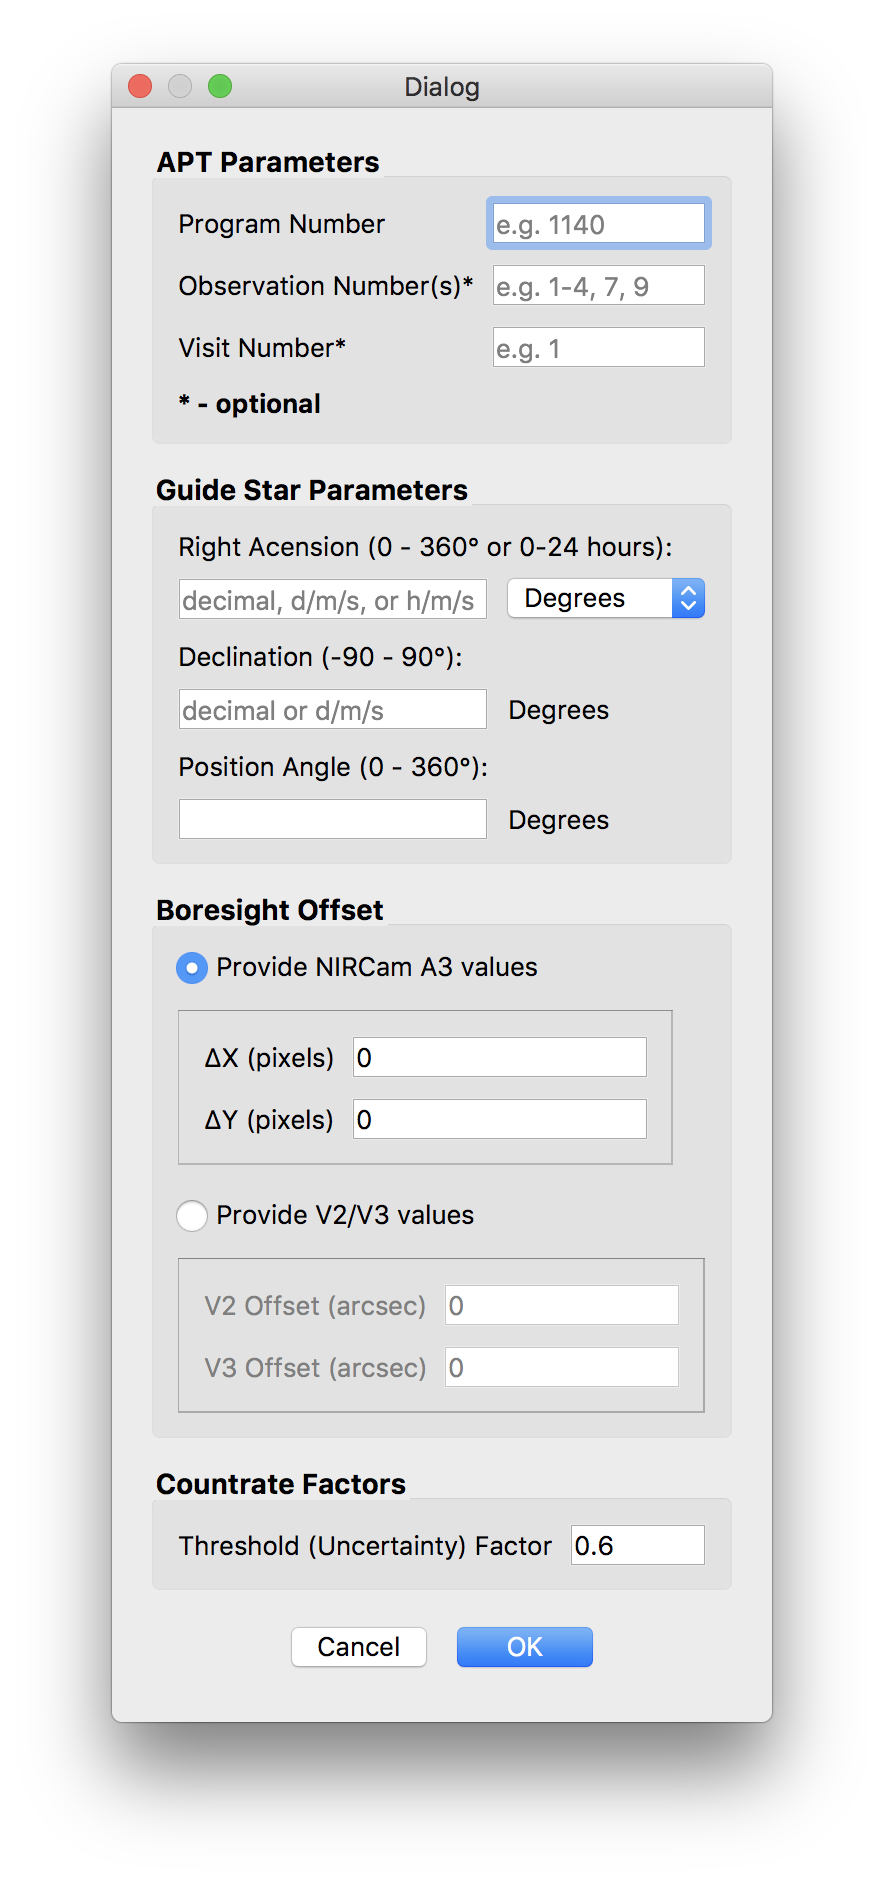
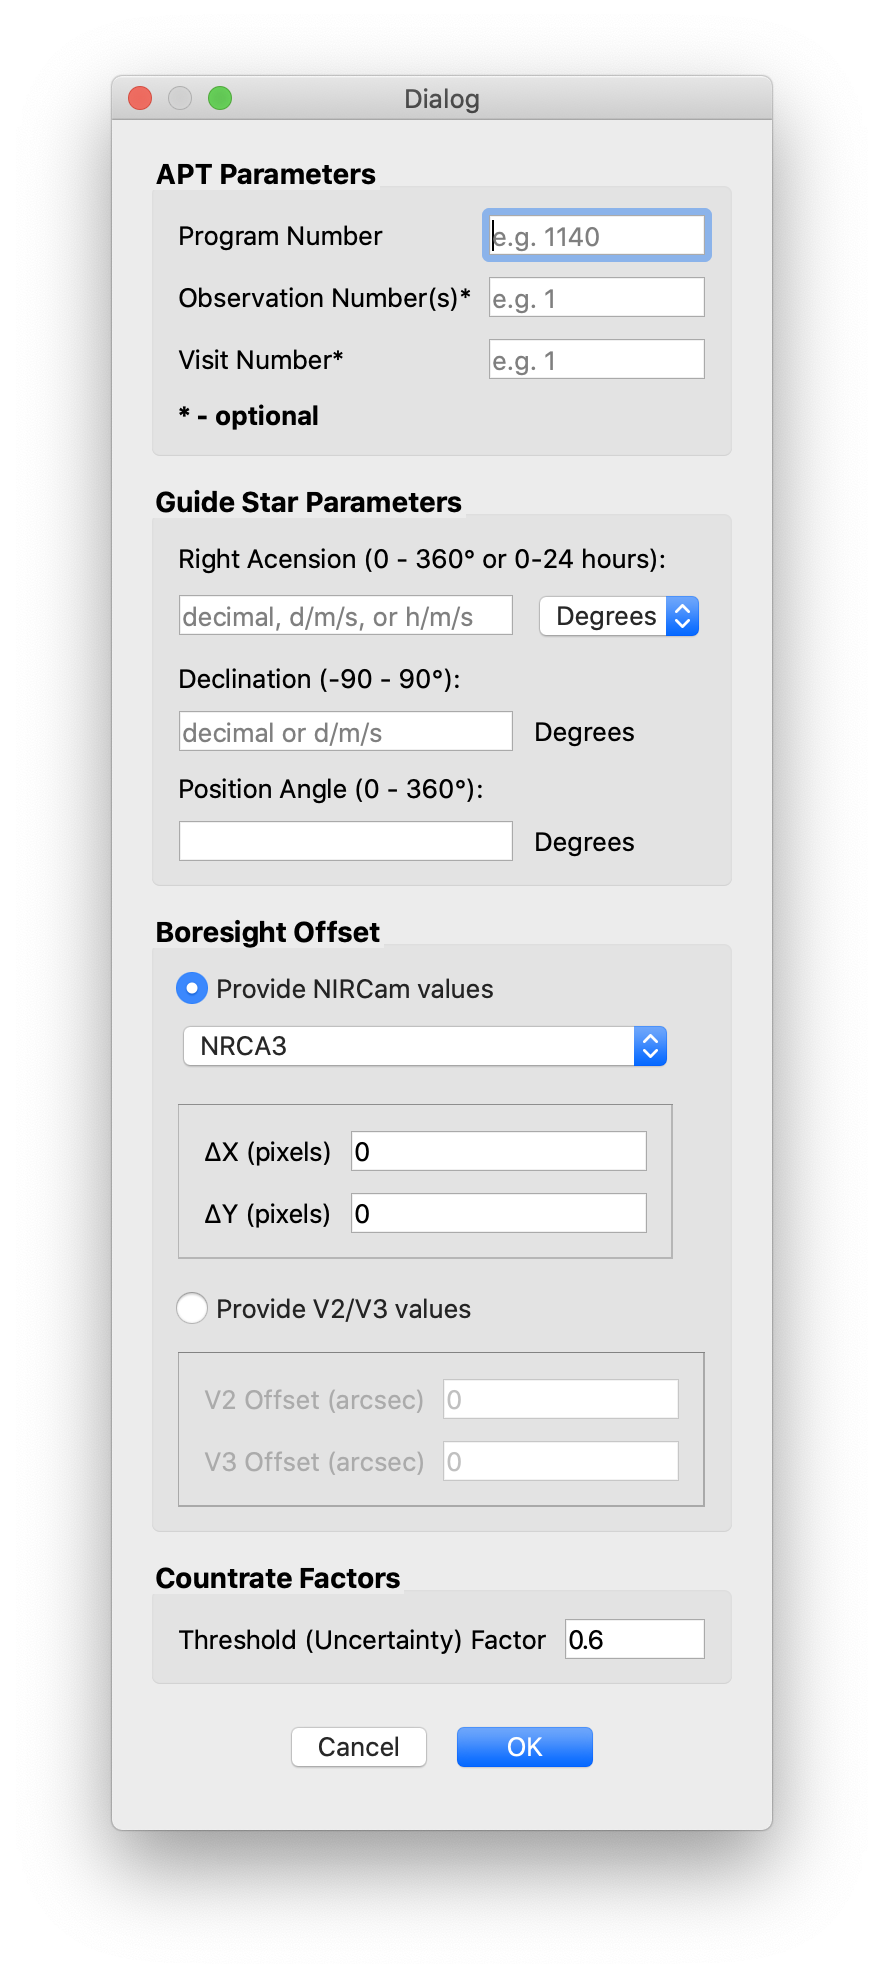
Update docs

Changed region(s): [[0.1222, 0.0308, 0.8552, 0.8321], [0.1222, 0.8013, 0.8857, 0.9245]]

diff --git a/docs/magic_user_guide/vii_write_sof.md b/docs/magic_user_guide/vii_write_sof.md
@@ -47,7 +47,7 @@ WebForm.aspx), and query with the guide star ID in the “HST ID” field to det
 
    ![Locations of V1, the guide star, and the target](./figs/figure14_locations_of_v1.png)
 
-   4. Get the current **V2 & V3 boresight offset** from the Wavefront Ops.
+   4. Get the current **boresight offset** in V2,V3 or NRCam X,Y pixels from the Wavefront Ops.
 
 5. Run the tool:
 
@@ -69,11 +69,11 @@ WebForm.aspx), and query with the guide star ID in the “HST ID” field to det
 
    6. **Position Angle** – of the observatory at the guide star at the time of the visit
 
-   7. **V2 Boresight offset** – that will be applied before the observation this file is for
+   7. **Boresight offset** – that will be applied before the observation this file is for
 
-   8. **V3 boresight offset** – that will be applied before the observation this file is for
+      - Either in **X,Y** pixels with the NIRCam detector specified, or in **V2,V3**
 
-   9. **Uncertainty factor** – the degree of uncertainty in the count rate of each segment. This will be auto-populated from the threshold entered in the main GUI, but can be changed here based on DHAS testing results.
+   8. **Uncertainty factor** – the degree of uncertainty in the count rate of each segment. This will be auto-populated from the threshold entered in the main GUI, but can be changed here based on DHAS testing results.
 
    Note: If you used the APT query functionality in [Section III](iii_determining_and_loading_the_input_image.md), the Program ID, Observation Number, Visit Number, and RA and DEC of the guide star should be pre-populated.
 
